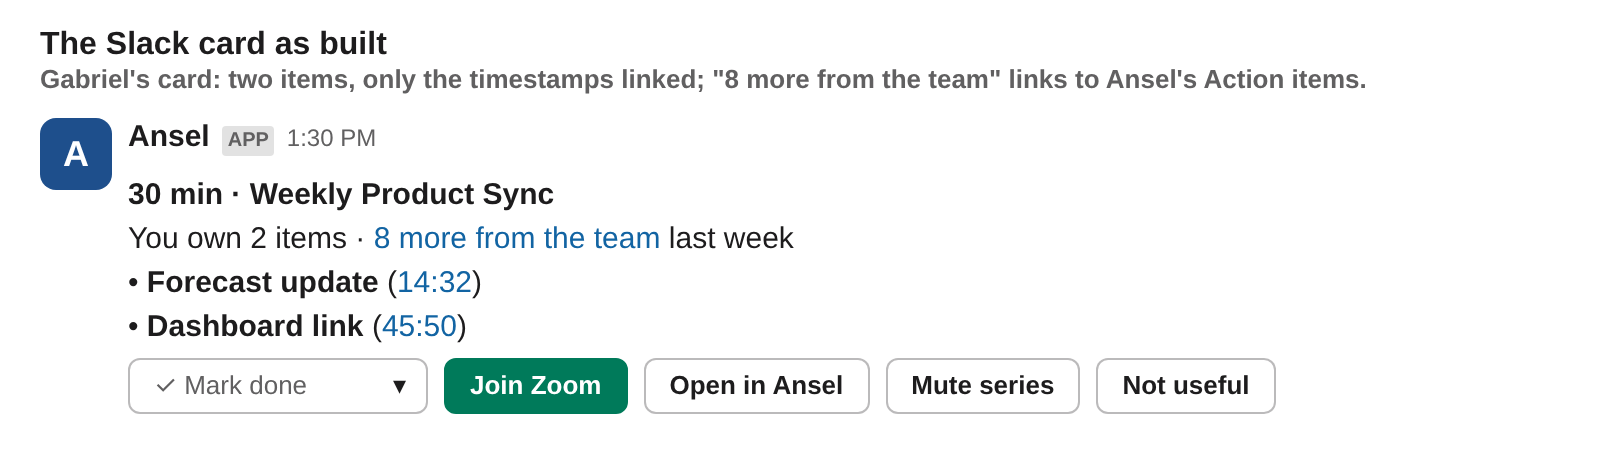
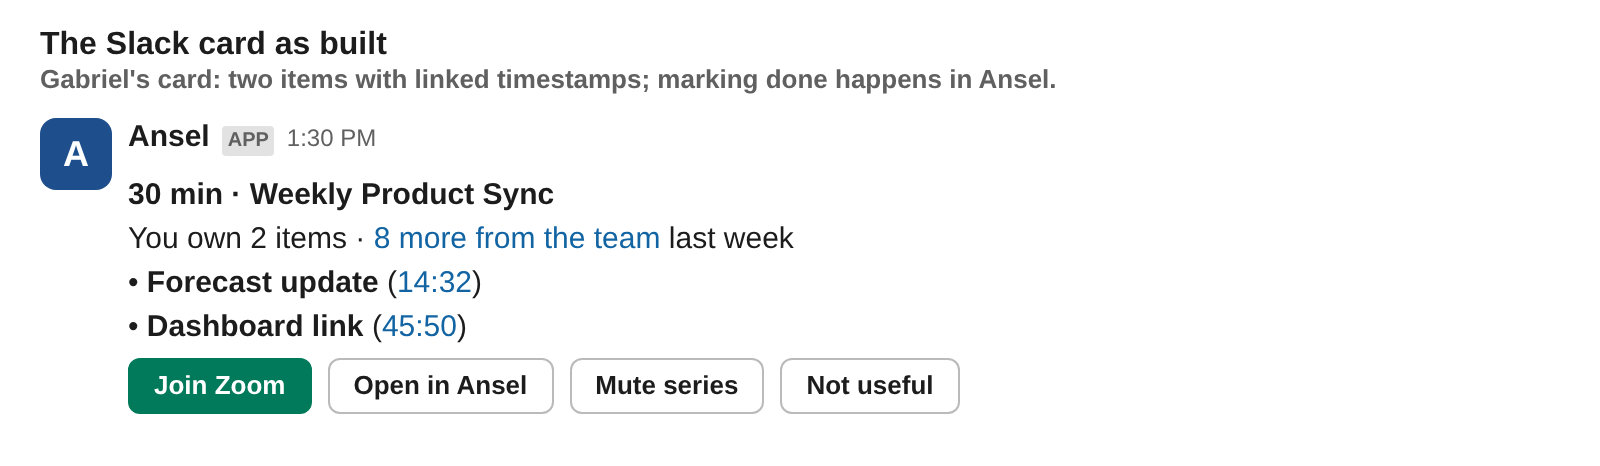
Slack card: remove Mark done (it moves to the Ansel app)
The card is now read-and-link only: your items with linked timestamps, the
team's items link, and Join Zoom / Open in Ansel / Mute series / Not useful.
Items already done in Ansel still show struck through.

Claude-Session: https://claude.ai/code/session_01SoGk1RXc8CwLh1htLSh9WK

diff --git a/slack-app/src/card.js b/slack-app/src/card.js
@@ -2,10 +2,10 @@
 // condensed layout (card/slack-mockups/condensed, B3 + M2): one text block and one row of buttons.
 //   *30 min · Weekly Product Sync*
 //   You own Forecast update (14:32) · 5 more items from last week     (one item of yours; 14:32 is the link)
-//   [✓] [Join Zoom] [Open in Ansel] [Mute series] [Not useful]
+//   [Join Zoom] [Open in Ansel] [Mute series] [Not useful]
 // Several items of yours: "You own 2 items · 8 more from the team last week", then one line per item
-// ("• Forecast update (14:32)"), and a "✓ Mark done" dropdown in place of the ✓ button. Timestamps use the
-// prototype's short #t/<itemId> link; "8 more…" links to the meeting's Action items tab.
+// ("• Forecast update (14:32)"). Timestamps use the prototype's short #t/<itemId> link; "8 more…" links to the
+// meeting's Action items tab. Marking items done happens in Ansel, not on the card.
 
 export const NOT_USEFUL_REASONS = [['already_knew', 'Already knew this'], ['wrong_meeting', 'Wrong meeting'], ['bad_timing', 'Bad timing']]
 const SOON_MS = 5 * 60000
@@ -34,13 +34,12 @@ const md = (text) => ({ type: 'mrkdwn', text })
 const ctxBlock = (text) => ({ type: 'context', elements: [md(text)] })
 
 export const MAX_LISTED = 3 // items of yours listed on the card; the rest are "+N more of yours in Ansel"
-export const OPTION_LIMIT = 75 // Slack's limit for a menu option's text
 
 /** Short transcript link (#t/<itemId>); the prototype opens that item's moment in its meeting. */
 export const shortTranscriptLink = (prototypeUrl, itemId) => (prototypeUrl ? `${prototypeUrl.replace(/#.*$/, '')}#t/${itemId}` : null)
 
 /**
- * entry: { persona, sid, startMs, joinUrl, postMs, data (contract 2.0), ui: { muted, notUseful, done } }
+ * entry: { persona, sid, startMs, joinUrl, postMs, data (contract 2.0), ui: { muted, notUseful } }
  * Every button carries the meta needed to rebuild the card after a restart.
  */
 export function buildCard(entry, { nowMs = Date.now(), prototypeUrl = '' } = {}) {
@@ -66,7 +65,7 @@ export function buildCard(entry, { nowMs = Date.now(), prototypeUrl = '' } = {})
   const items = data.actionItems.items
   const mine = items.filter((i) => i.owner.id === me)
   const othersCount = items.length - mine.length + (data.actionItems.moreCount || 0)
-  const isDone = (it) => ui.done[it.id] ?? !!it.done
+  const isDone = (it) => !!it.done // done status comes from Ansel
   const plural = (n, word) => `${n} ${word}${n === 1 ? '' : 's'}`
   const stampLink = (it) => {
     const url = shortTranscriptLink(prototypeUrl, it.id)
@@ -98,17 +97,6 @@ export function buildCard(entry, { nowMs = Date.now(), prototypeUrl = '' } = {})
   }
 
   const row = []
-  if (mine.length === 1) {
-    const it = mine[0]
-    row.push(isDone(it)
-      ? btn(`hu_done_undo:${it.id}`, '✓', meta, { style: 'primary', accessibility_label: `Done: ${it.text}. Tap to undo`.slice(0, 75) })
-      : btn(`hu_done:${it.id}`, '✓', meta, { accessibility_label: `Mark done: ${it.text}`.slice(0, 75) }))
-  } else if (mine.length > 1) {
-    // Several items: a "✓ Mark done" dropdown of the listed items (done ones offer Undo).
-    const opt = (text, value) => ({ text: { type: 'plain_text', text: text.slice(0, OPTION_LIMIT) }, value })
-    row.push({ type: 'static_select', action_id: 'hu_pick', placeholder: { type: 'plain_text', text: '✓ Mark done' },
-      options: mine.slice(0, MAX_LISTED).map((it) => (isDone(it) ? opt(`Undo: ${it.text}`, `undo:${it.id}`) : opt(it.text, `done:${it.id}`))) })
-  }
   if (join) row.push(join)
   const summaryUrl = deepLink(prototypeUrl, { instanceId: data.lastMeeting.meetingId, tab: 'summary' })
   row.push(btn('hu_open_last', 'Open in Ansel', meta, summaryUrl ? { url: summaryUrl } : {}))

diff --git a/slack-app/src/headsup.js b/slack-app/src/headsup.js
@@ -42,7 +42,7 @@ export function createHeadsUp({ client, config, access, log = pilotLog }) {
     return userIds[ref]
   }
 
-  const freshUi = () => ({ muted: false, notUseful: null, done: {}, tapped: false })
+  const freshUi = () => ({ muted: false, notUseful: null })
   const render = (entry) => buildCard(entry, { nowMs: Date.now(), prototypeUrl: config.prototypeUrl })
   const update = (entry) => client.chat.update({ channel: entry.channel, ts: entry.ts, ...render(entry) })
 
@@ -113,10 +113,9 @@ export function createHeadsUp({ client, config, access, log = pilotLog }) {
     return entry
   }
 
-  const itemById = (entry, id) => entry.data.actionItems.items.find((i) => i.id === id)
 
   /**
-   * Handle a card control (action_id "hu_<act>[:<item>][:<reason>]", or "hu_pick" for the Mark done dropdown).
+   * Handle a card button (action_id "hu_<act>[:<reason>]").
    * Updates the card, logs the contract event and returns a private reply to show the user, if any.
    */
   async function handleAction(body, action) {
@@ -124,25 +123,14 @@ export function createHeadsUp({ client, config, access, log = pilotLog }) {
     const entry = entryFor(body)
     const { ui, persona } = entry
     const title = entry.data.meeting.title
-    const it = a1 ? itemById(entry, a1) : null
     const ev = (name, detail = '') => log(name, persona, detail)
     switch (act) {
       case 'join':
-        ev('join_tap', `${entry.data.meeting.platform} · joinedPrepared=${ui.tapped}`)
+        ev('join_tap', entry.data.meeting.platform)
         return null
       case 'open_last':
         ev('open_last_meeting', entry.data.lastMeeting.meetingId)
         return action.url ? null : summaryText(entry.data.lastMeeting.meetingId)
-      case 'done': ui.done[a1] = true; ui.tapped = true; ev('mark_done', `★ ${it?.text}`); break
-      case 'done_undo': ui.done[a1] = false; ev('mark_done_undone', it?.text); break
-      case 'pick': {
-        // "✓ Mark done" dropdown: value is "done:<itemId>" or "undo:<itemId>"
-        const [what, id] = (action.selected_option?.value ?? '').split(':')
-        const item = itemById(entry, id)
-        if (!item || item.owner.id !== entry.data.viewer.id) return null
-        if (what === 'done') { ui.done[id] = true; ui.tapped = true; ev('mark_done', `★ ${item.text}`) } else { ui.done[id] = false; ev('mark_done_undone', item.text) }
-        break
-      }
       case 'mute': ui.muted = true; muted[`${persona}:${entry.sid}`] = true; ev('mute_series', title); break
       case 'mute_undo': ui.muted = false; delete muted[`${persona}:${entry.sid}`]; ev('mute_undone', title); break
       case 'nu': ui.notUseful = { reason: null }; ev('not_useful', title); break

diff --git a/slack-app/README.md b/slack-app/README.md
@@ -5,7 +5,7 @@ A real Slack app that posts the Heads-Up card as a DM from "Ansel". It can be tr
 1. **Calendar trigger:** polls a Google or Outlook calendar ICS feed and posts at *meeting start − 30 min* for **recurring** meetings whose title matches a seeded Ansel series.
 2. **Manual demo trigger:** `/headsup demo` in Slack (or `npm run trigger` from a terminal) posts the card right away, for a meeting "starting in 30 min".
 
-Personas (who gets which card and why) are described in [`../profiles.md`](../profiles.md). The Slack card follows the Heads-Up card design in [`../card/`](../card/README.md) (contract 2.0, [`../card/CONTRACT.md`](../card/CONTRACT.md)): a countdown with Join, every action item from last meeting with its owner (yours first, marked `YOURS`), Mark done and Not right on rows, and the trust footer. The card data is built from the shared seed by [`../src/logic/buildCardData.js`](../src/logic/buildCardData.js). The calendar supplies the trigger time, the meeting title (matched to a series) and the join link. Socket Mode means no public URL is needed.
+Personas (who gets which card and why) are described in [`../profiles.md`](../profiles.md). The Slack card is a condensed Heads-Up (layout and previews in [`../card/slack-mockups/`](../card/slack-mockups/README.md)): the countdown, your action items from last meeting with links to their transcript moments, a link to the rest of the team's items, and Join / Open in Ansel / Mute series / Not useful. Marking items done happens in Ansel. The card data is built from the shared seed by [`../src/logic/buildCardData.js`](../src/logic/buildCardData.js) (contract 2.0, [`../card/CONTRACT.md`](../card/CONTRACT.md)). The calendar supplies the trigger time, the meeting title (matched to a series) and the join link. Socket Mode means no public URL is needed.
 
 ## Token and ownership model
 
@@ -176,15 +176,14 @@ Layout (condensed, chosen in [`../card/slack-mockups/`](../card/slack-mockups/RE
 You own 2 items · 8 more from the team last week
 • Forecast update (14:32)
 • Dashboard link (45:50)
-[✓ Mark done ▾] [Join Zoom] [Open in Ansel] [Mute series] [Not useful]
+[Join Zoom] [Open in Ansel] [Mute series] [Not useful]
 ```
 
-Only the timestamps are links (each opens that moment in last meeting's transcript, via the prototype's short `#t/<itemId>` link), and "8 more from the team" links to the meeting's Action items tab. With exactly one item of yours, the line reads "You own **Forecast update** (14:32) · 5 more items from last week" and the dropdown is a ✓ button. Up to 3 of your items are listed, then "+N more of yours in Ansel". Everything else (other people's items, Not right) is in Ansel.
+Only the timestamps are links (each opens that moment in last meeting's transcript, via the prototype's short `#t/<itemId>` link), and "8 more from the team" links to the meeting's Action items tab. With exactly one item of yours, the line reads "You own **Forecast update** (14:32) · 5 more items from last week". Marking items done happens in Ansel, not on the card; items already done there show struck through. Up to 3 of your items are listed, then "+N more of yours in Ansel". Everything else (other people's items, Not right) is in Ansel.
 
 | Control | Behavior | Event |
 |---|---|---|
-| ✓ Mark done dropdown (several items) / ✓ button (one item) | Marks the chosen item done (struck through, _Done_); pick "Undo: …" or tap the green ✓ again to undo | `mark_done` ★ / `mark_done_undone` |
-| Join Zoom / Join now | Opens the meeting link; the green button; removed after the meeting ends | `join_tap` (with `joinedPrepared`: true if something was marked done first) |
+| Join Zoom / Join now | Opens the meeting link; the green button; removed after the meeting ends | `join_tap` |
 | Open in Ansel | Opens last meeting's summary in the hosted prototype (default), or replies privately with the summary if `PROTOTYPE_URL=off` | `open_last_meeting` |
 | Mute series / Undo | Collapses the card to one line (Join stays) and stops future cards for the series | `mute_series` / `mute_undone` |
 | Not useful → reason / Undo | Asks "What was off?" (Already knew this, Wrong meeting, Bad timing) | `not_useful`, `not_useful_reason`, `not_useful_undone` |

diff --git a/profiles.md b/profiles.md
@@ -6,7 +6,7 @@ Who plays which role in the Heads-Up demo. The team's real names are used, but *
 
 ## How a card is built (so edits stay realistic)
 
-**Slack card (current, condensed):** everyone on the Weekly Product Sync invite gets a card. **Each team member owns two items** from the last meeting (Nov 6), listed on the card with their timestamps, e.g. "You own 2 items · 8 more from the team last week · • Forecast update (14:32) · • Dashboard link (45:50)". Only the timestamp is a link (to that moment in the transcript); "8 more from the team" links to the meeting's Action items tab in Ansel. A **✓ Mark done** dropdown marks either item done. No card for external guests (Leo).
+**Slack card (current, condensed):** everyone on the Weekly Product Sync invite gets a card. **Each team member owns two items** from the last meeting (Nov 6), listed on the card with their timestamps, e.g. "You own 2 items · 8 more from the team last week · • Forecast update (14:32) · • Dashboard link (45:50)". Only the timestamp is a link (to that moment in the transcript); "8 more from the team" links to the meeting's Action items tab in Ansel. Marking items done happens in Ansel, not on the Slack card. No card for external guests (Leo).
 
 **Prototype card (the React app's own Heads-Up screen):** unchanged, built by `src/logic/buildHeadsUp.js` with the rules below.
 
